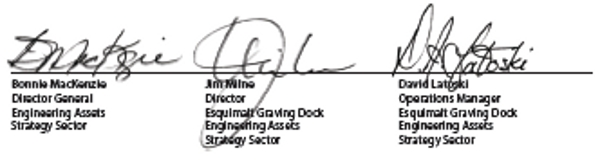
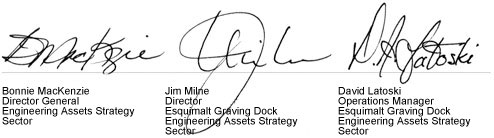
Make French environmental policy page match English, update signature blocks

Changed region(s): [[0.0, 0.0, 1.0, 0.9855], [0.5769, 0.2029, 0.6073, 0.2319]]

diff --git a/env/politique-policy-fra.html b/env/politique-policy-fra.html
@@ -90,18 +90,15 @@
 					Politique environnementale
 					<!-- CONTENT TITLE ENDS | FIN DU TITRE DU CONTENU -->
 				</h1>
-				<div style="float:right; text-align:right; width:218px;"><img src="../images/poli-haut-top-1.jpg" width="198" alt="cale s&egrave;che d'Esquimalt" height="276" style="padding-left:10px; padding-bottom:5px;" /><img src="../images/poli-haut-top-2.jpg" alt="cale s&egrave;che d'Esquimalt" width="198" height="123" style="padding-left:10px; padding-bottom:5px;" /><img src="../images/poli-haut-top-3.jpg" alt="Paquebot de croisi&egrave;re dans le bassin" width="198" height="122" style="padding-left:10px; padding-bottom:10px;" />				</div>
-				<div class="option2">
-					<p><strong>La cale s&egrave;che d'Esquimalt, en partenariat avec l'industrie de r&eacute;paration
-						de navires, veut &ecirc;tre le meilleur chantier naval de la
-						c&ocirc;te Ouest de l'Am&eacute;rique du Nord.</strong></p>
-					<p><strong>La Cale s&egrave;che d'Esquimalt et ses usagers sont conscients que l'atteinte
-						de cet objectif passe obligatoirement par la gestion
-						de l'environnement. La mise en &oelig;uvrue d'un syst&egrave;me de gestion de
-						l'environnement certifi&eacute; <acronym title="International Standards Organization">ISO</acronym> 14001&nbsp;traduit notre engagement &agrave; g&eacute;rer
-						les r&eacute;percussions que nos activit&eacute;s ont ou pourraient
-						avoir sur l'environnement. </strong></p>
-				</div>
+        <p>La cale s&egrave;che d'Esquimalt, en partenariat avec l'industrie de r&eacute;paration
+          de navires, veut &ecirc;tre le meilleur chantier naval de la
+          c&ocirc;te Ouest de l'Am&eacute;rique du Nord.</p>
+        <p>La Cale s&egrave;che d'Esquimalt et ses usagers sont conscients que l'atteinte
+          de cet objectif passe obligatoirement par la gestion
+          de l'environnement. La mise en &oelig;uvrue d'un syst&egrave;me de gestion de
+          l'environnement certifi&eacute; <acronym title="International Standards Organization">ISO</acronym> 14001&nbsp;traduit notre engagement &agrave; g&eacute;rer
+          les r&eacute;percussions que nos activit&eacute;s ont ou pourraient
+          avoir sur l'environnement. </p>
 				<p>Pour remplir notre engagement, nous allons&nbsp;:</p>
 				<ul>
 					<li>Prot&eacute;ger le milieu naturel et pr&eacute;venir la pollution.</li>
